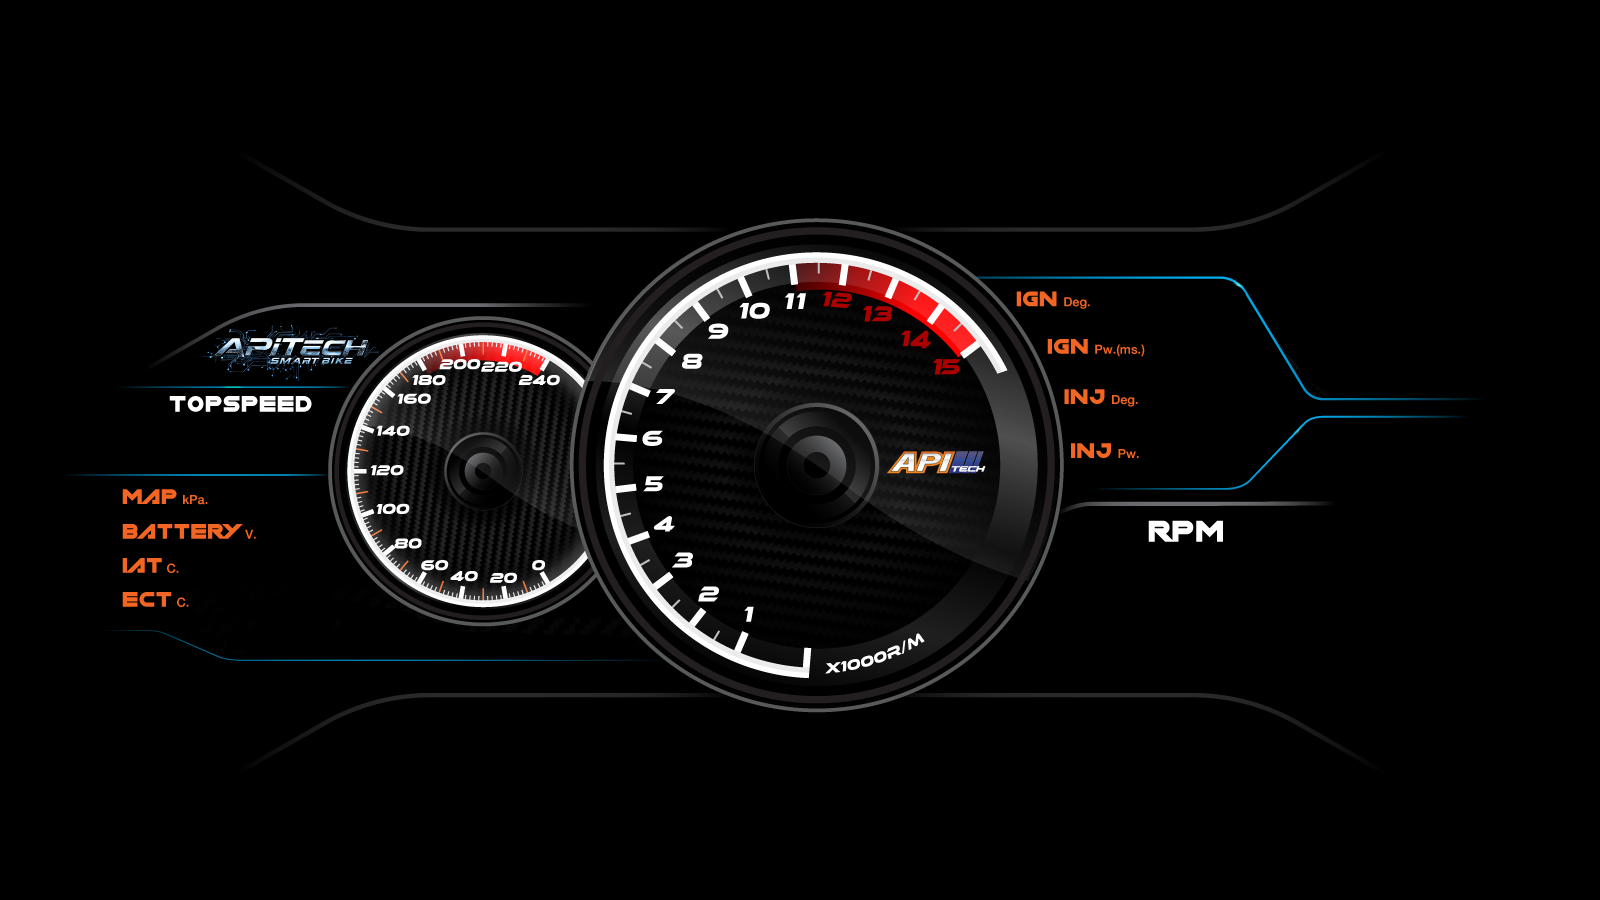
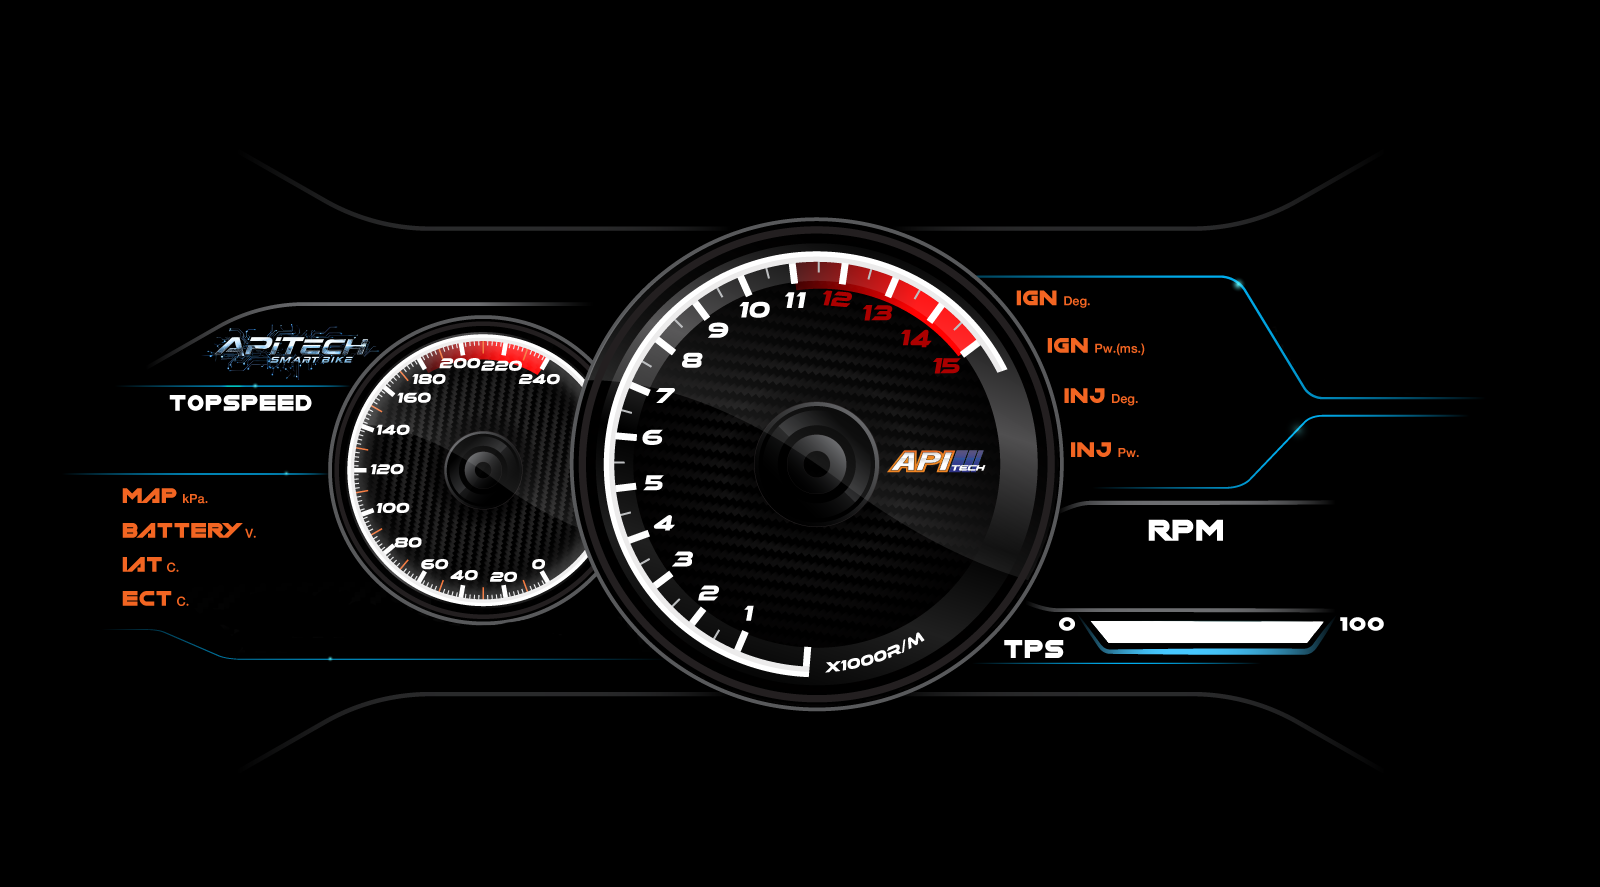
feat: add TPS progress bar to dashboard screen and update UI assets

diff --git a/lib/views/screens/dashboard/dashboard_1.dart b/lib/views/screens/dashboard/dashboard_1.dart
@@ -23,6 +23,23 @@ class TemplateOneScreen extends StatelessWidget {
             final screenHeight = constraints.maxHeight;
             return Stack(
               children: [
+
+                // TPS Progress Bar (below image)
+                Positioned(
+                  bottom: screenHeight * 0.2 - 5, // ต่ำกว่ารูปเล็กน้อย
+                  right: screenWidth * 0.2 - 21,
+                  child: Obx(() {
+                    final tps = ecuController.currentData.value?.tps ?? 0;
+                    return Container(
+                      width: screenWidth * .140, // ความกว้าง
+                      height: 15, // ความสูง (เรียวกว่าเดิม)
+                      decoration: BoxDecoration(
+                        color: Colors.red.withValues(alpha: 0.5),
+                      ),
+                      child: _buildTPSProgressBar(tps),
+                    );
+                  }),
+                ),
                 // Background Image
                 Positioned.fill(
                   child: Image.asset(
@@ -112,28 +129,7 @@ class TemplateOneScreen extends StatelessWidget {
                   ),
                 ),
 
-                // TPS Progress Bar
-                Positioned(
-                  bottom: screenHeight * 0.17, // 11% จากด้านล่าง
-                  right:
-                      screenWidth * 0.2 -
-                      21,
-                  child: Obx(() {
-                    final tps = ecuController.currentData.value?.tps ?? 0;
-                    return Container(
-                      width: screenWidth * .140, // ความกว้าง
-                      height: 15, // ความสูง (เรียวกว่าเดิม)
-                      decoration: BoxDecoration(
-                        color: Colors.red.withValues(alpha: 0.5),
-                        borderRadius: BorderRadius.only(
-                          bottomLeft: Radius.circular(300.0),
-                          bottomRight: Radius.circular(300.0),
-                        ),
-                      ),
-                      child: _buildTPSProgressBar(tps),
-                    );
-                  }),
-                ),
+                
 
                 // Settings Button (Top Left)
                 const Positioned(
@@ -286,6 +282,7 @@ class TemplateOneScreen extends StatelessWidget {
 
   /// TPS Progress Bar (Linear Gauge) - รูปแบบตามรูป
   Widget _buildTPSProgressBar(double tps) {
+    print(  'TPS Value: $tps'); // Debugging line
     return Stack(
       children: [
         // Progress Fill (หลอดที่เต็ม)
